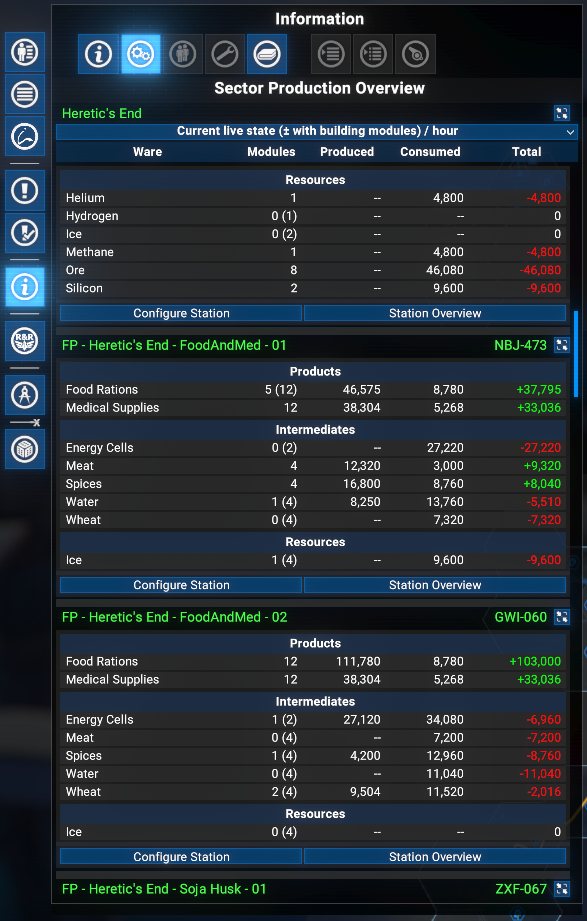
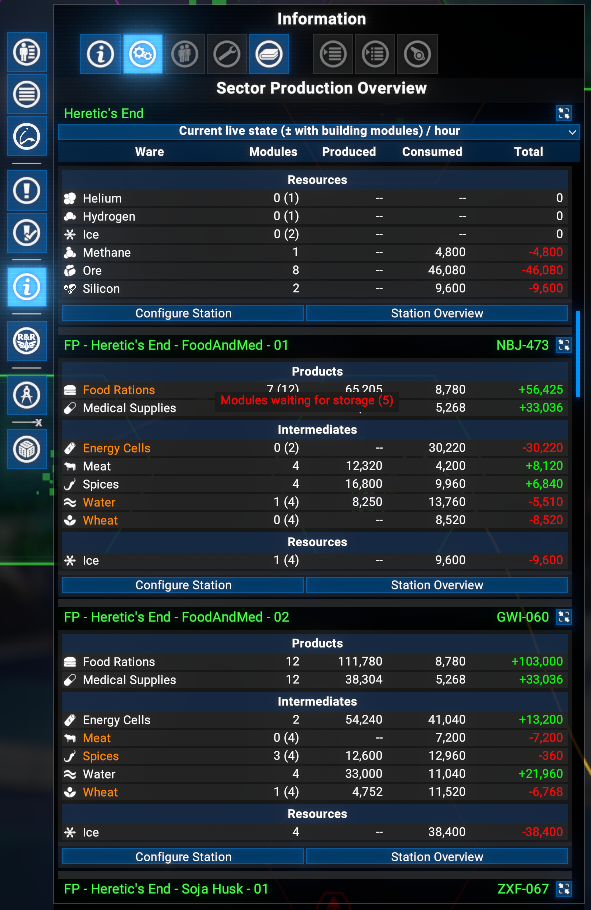
feat: version 9.00.04

Changed region(s): [[0.0, 0.0, 1.0, 1.0]]

diff --git a/README.md b/README.md
@@ -7,6 +7,8 @@ Adds a **Production Overview** tab to the info panel tab strip in the map menu (
 - **Production Overview Tab**: A dedicated tab in the station info panel shows all production and consumption data at a glance.
 - **Sector Production Overview**: A dedicated tab in the sector info panel shows all production stations within the sector with their respective production data, equal to the single station production overview.
 - **Per-ware rates**: For each ware the tab displays produced, consumed, and net total amounts per hour.
+- **Ware icons**: Each ware row shows the ware icon alongside its name for quick visual identification.
+- **Production issue indicators**: If any production modules for a ware are waiting for resources or waiting for storage, the ware name is highlighted in warning colour and a mouseover tooltip lists the exact issue counts per state.
 - **Live vs Estimated mode**: A dropdown lets you switch between *Current (live state)* (reflecting only active modules and workforce) and *Estimated (all modules active)* (the theoretical maximum output).
 - **Active module count**: In live mode the module count column shows how many modules are currently running out of the total installed (e.g. `3 (5)`).
 - **Ware grouping**: Wares are grouped into **Products** (not consumed on-site), **Intermediates** (produced and consumed on-site), and **Resources** (pure inputs, not produced on-site).
@@ -81,6 +83,12 @@ When viewing the info panel for a sector, a similar **Production Overview** tab 
 - [SirNukes](https://next.nexusmods.com/profile/sirnukes?gameId=2659) — for the `Mod Support APIs` that power the UI hooks.
 
 ## Changelog
+
+### [9.00.04] - 2026-04-01
+
+- **Improved**
+  - Ware icon is now displayed next to the ware name in each row.
+  - Production issue highlighting: if any modules for a ware are waiting for resources or waiting for storage the ware name changes to warning colour and a mouseover tooltip shows the counts per issue state.
 
 ### [9.00.03] - 2026-03-31
 
